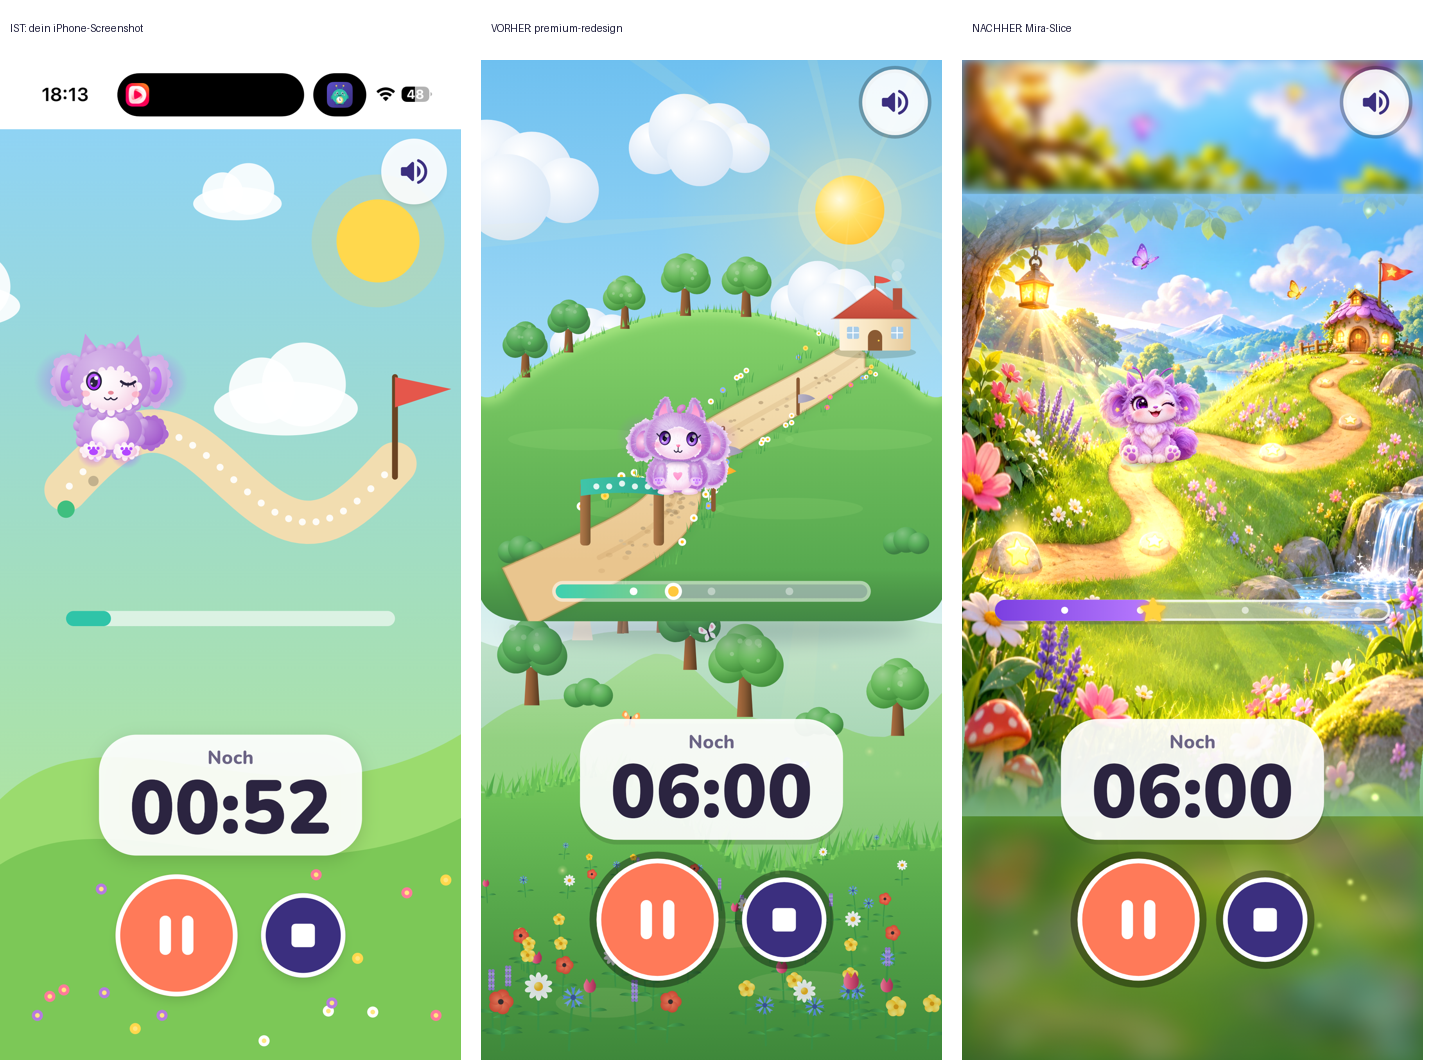
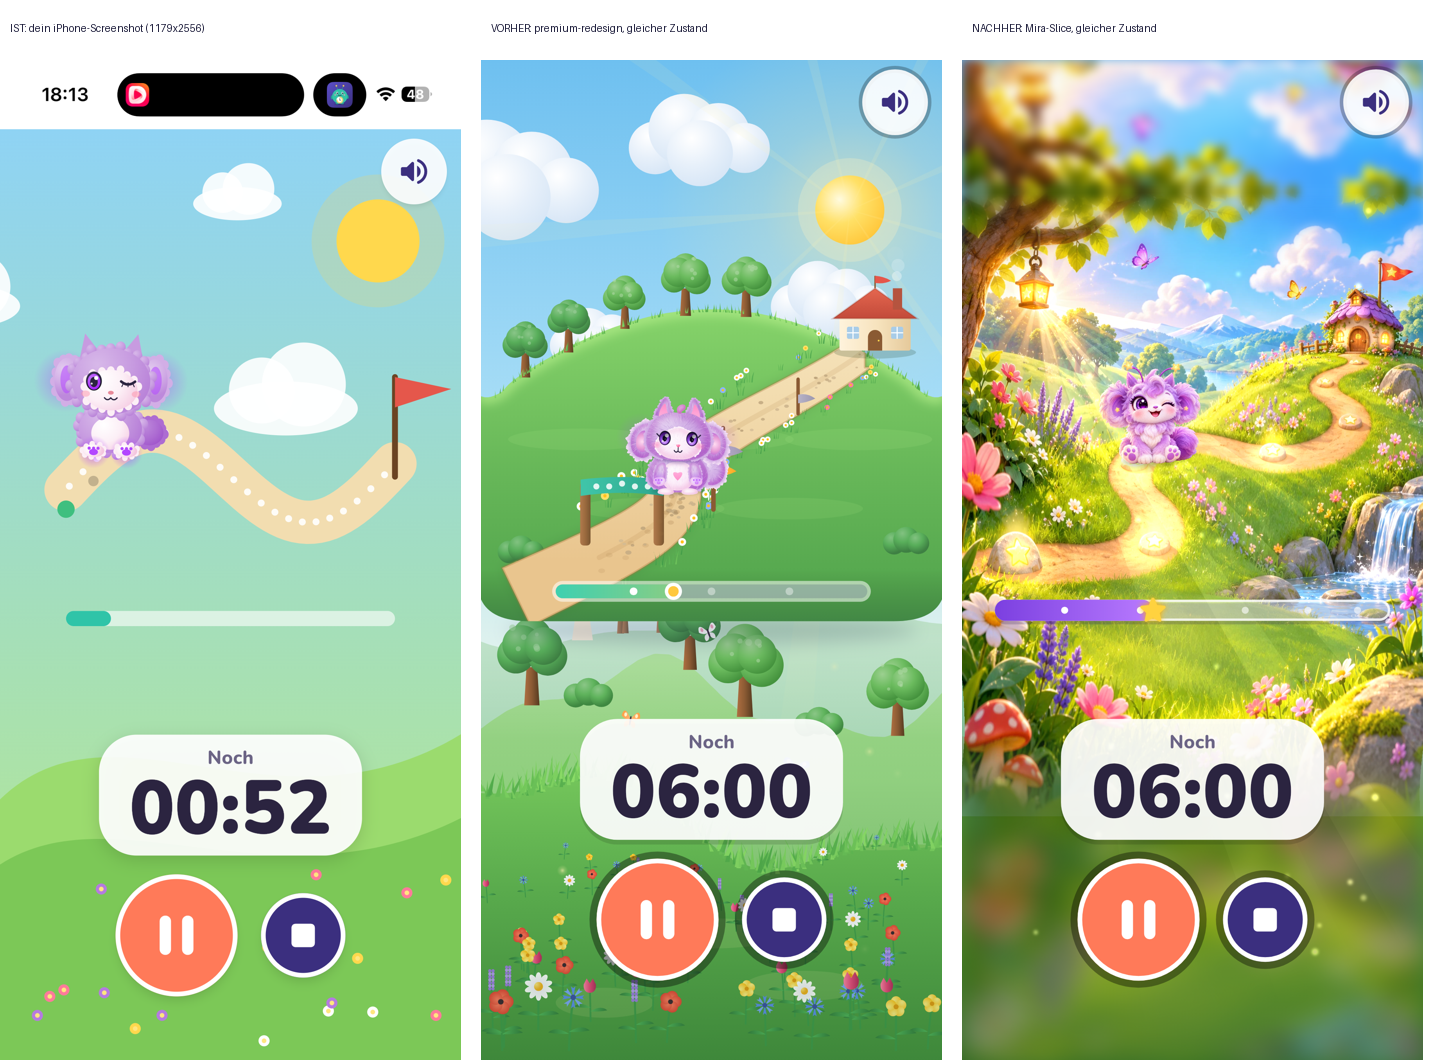
Nahtlose Erweiterungsstreifen, aktualisierte Vergleichsbilder

diff --git a/lib/presentation/art/story/meadow_story.dart b/lib/presentation/art/story/meadow_story.dart
@@ -118,37 +118,49 @@ class MeadowBackdropPainter extends CustomPainter {
     );
   }
 
+  /// Erweiterungsstreifen oben/unten. Sie laufen **unter** die Fade-Zone des Mesh-Bildes weiter
+  /// (weichgezeichnete Kopie des Bildrandes), damit der Übergang scharf → unscharf nahtlos ist.
   void _extension(Canvas c, Size size) {
     final s = geo.s;
+    const f = 70.0; // Länge der Fade-Zone (siehe _drawFeatheredMesh)
     final w = MeadowPath.imageSize.width;
     final h = MeadowPath.imageSize.height;
-    // oben: gespiegelte oberste Bildzeilen
+    final paint = Paint()..filterQuality = FilterQuality.medium;
     if (geo.top0 > 1) {
-      final srcH = math.min(h * 0.4, geo.top0 / s);
+      final zone = Rect.fromLTWH(0, 0, size.width, geo.top0 + f);
+      final srcH = math.min(h * 0.4, math.max(geo.top0, f) / s);
       c.save();
-      c.clipRect(Rect.fromLTWH(0, 0, size.width, geo.top0 + 2));
+      c.clipRect(zone);
       c.saveLayer(
-        Rect.fromLTWH(0, 0, size.width, geo.top0 + 2),
+        zone,
         Paint()..imageFilter = ui.ImageFilter.blur(sigmaX: 4, sigmaY: 4),
       );
+      // gespiegelt oberhalb der Naht
+      c.save();
       c.translate(0, geo.top0);
       c.scale(1, -1);
       c.drawImageRect(
         image,
         Rect.fromLTWH(0, 0, w, srcH),
         Rect.fromLTWH(0, 0, size.width, srcH * s),
-        Paint()..filterQuality = FilterQuality.medium,
+        paint,
+      );
+      c.restore();
+      // unverändert unterhalb der Naht (unter der Fade-Zone)
+      c.drawImageRect(
+        image,
+        Rect.fromLTWH(0, 0, w, f / s),
+        Rect.fromLTWH(0, geo.top0, size.width, f),
+        paint,
       );
       c.restore();
       c.restore();
     }
-    // unten: gespiegelte unterste Bildzeilen, mit Tiefenunschärfe
     final bottom = geo.imageBottom;
     if (bottom < size.height - 1) {
       final need = size.height - bottom + 4;
-      final srcH = math.min(h * 0.5, need / s);
-      c.save();
-      c.clipRect(Rect.fromLTWH(0, bottom - 2, size.width, need + 2));
+      final k = s * 1.32; // das Unterband ist im Mesh um 1,32 gestreckt
+      final zone = Rect.fromLTWH(0, bottom - f, size.width, need + f);
       c.drawRect(
         Rect.fromLTWH(0, bottom - 2, size.width, need + 2),
         Paint()
@@ -158,19 +170,30 @@ class MeadowBackdropPainter extends CustomPainter {
             const [Color(0xFF5E9E34), Color(0xFF3F7F2C)],
           ),
       );
+      c.save();
+      c.clipRect(zone);
       c.saveLayer(
-        Rect.fromLTWH(0, bottom - 2, size.width, need + 2),
+        zone,
         Paint()
-          ..color = const Color(0x99FFFFFF)
+          ..color = const Color(0xB3FFFFFF)
           ..imageFilter = ui.ImageFilter.blur(sigmaX: 11, sigmaY: 11),
       );
+      final srcH = math.min(h * 0.5, need / k);
+      c.save();
       c.translate(0, bottom);
       c.scale(1, -1);
       c.drawImageRect(
         image,
         Rect.fromLTWH(0, h - srcH, w, srcH),
-        Rect.fromLTWH(0, -srcH * s, size.width, srcH * s),
-        Paint()..filterQuality = FilterQuality.medium,
+        Rect.fromLTWH(0, -srcH * k, size.width, srcH * k),
+        paint,
+      );
+      c.restore();
+      c.drawImageRect(
+        image,
+        Rect.fromLTWH(0, h - f / k, w, f / k),
+        Rect.fromLTWH(0, bottom - f, size.width, f),
+        paint,
       );
       c.restore();
       c.restore();
